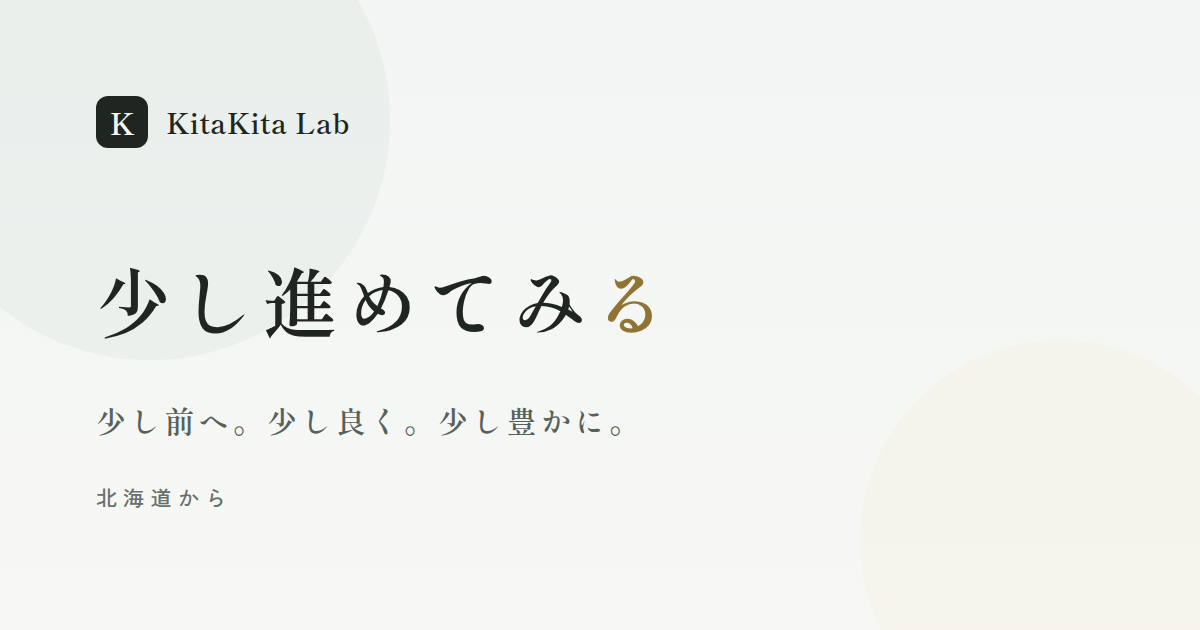
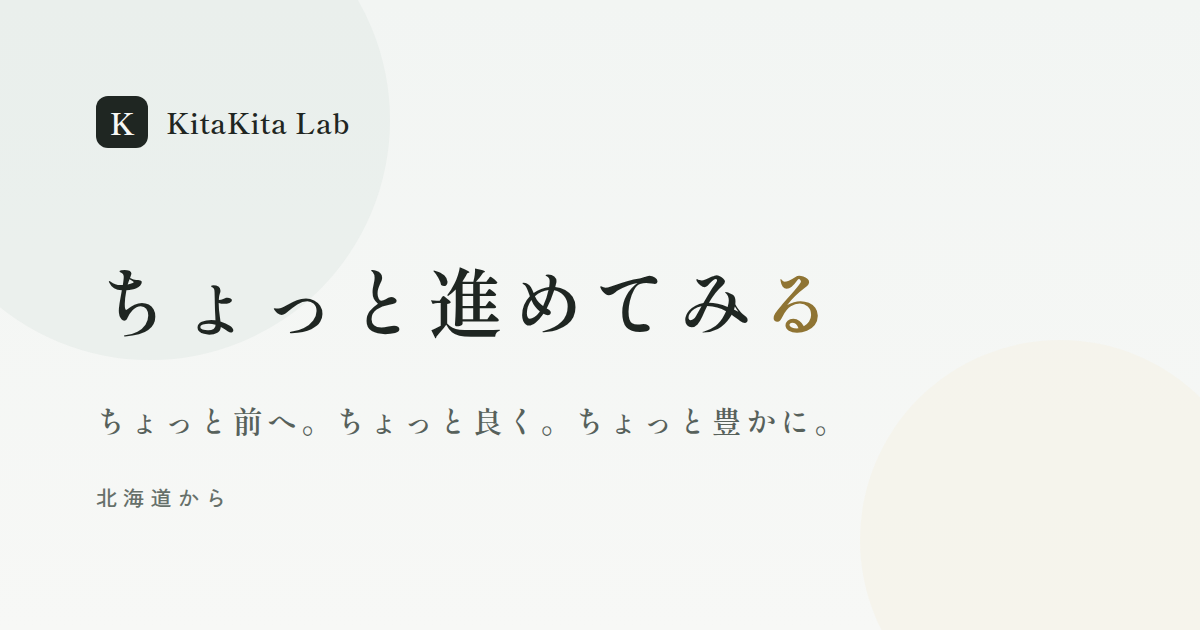
ブランド語彙の統一: 「少し」を「ちょっと」へ（all「ちょっと贅沢」と統一）
コピーのみの変更。デザイン・レイアウト・フォント・余白は不変。

- サイト全体の「少し」をブランド語彙「ちょっと」へ統一
  （Hero・タグライン・全ページ見出し/本文・News記事・FAQ・meta/OGP・
   構造化データ・README・BRAND.md）。
- 「少人数」など「少し」でない語は対象外。BRAND.md の改訂履歴（v2行）は
  歴史的記録として保持し、v3改訂行を追記。
- OGP画像を「ちょっと進めてみる」で再生成（フォントサブセットに
  ち・ょ・っ・と のグリフを追加取得）。
- 文字数増（2字）に伴うスマホ改行調整（フォント不変・意味のまとまり優先）:
  - Hero h1: 400px未満は「ちょっと／進めてみる」の2行
    （375pxで語中分割・390pxで余白ゼロになるため）
  - Heroタグライン: 420px未満は「前へ。良く。／豊かに。」の2行
  - Creators見出し: 「ちょっと」をnowrap固定＋極小トラッキング
  - Workshop CTA: 文節ごとにnowrap固定し語中分割を防止

検証: typecheck / lint / test(40) / build パス。
320/375/390/430px で変更見出しをスクリーンショット確認、
語中分割・孤立助詞なし・横スクロール0。

Claude-Session: https://claude.ai/code/session_013ypFxMEoAGeSNYS96NcwDp

Changed region(s): [[0.0925, 0.4222, 0.6783, 0.5429], [0.0617, 0.6333, 0.6783, 0.6937]]

diff --git a/src/data/news.ts b/src/data/news.ts
@@ -32,12 +32,12 @@ export const newsItems: NewsItem[] = [
     date: '2026-07-02',
     category: 'お知らせ',
     excerpt:
-      '「少し進めてみる」を真ん中に、KitaKita Labのブランドストーリーを新しくしました。',
+      '「ちょっと進めてみる」を真ん中に、KitaKita Labのブランドストーリーを新しくしました。',
     body: [
       'KitaKita Labは、ブランドストーリーを新しくしました。',
-      'これまで大切にしてきた「誰かの一歩を、少し前へ」という想いは変わりません。ただ、その真ん中に置く言葉を「少し進めてみる」に定めました。',
-      '「少し進めてみる」の意味は、ひとつに決めません。慎重に進むことかもしれないし、まずやってみることかもしれない。相談してみる、考えてみる——受け取る人によって変わっていい、私たちの哲学です。',
-      'KitaKita Labは、ブランドや事業をつくる会社ではありません。誰かの「やってみたい」を、ご縁や企画、仕組みや経験を通して、少し前へ。方向は示し、経験も分かち合います。それでも、歩くのは本人です。',
+      'これまで大切にしてきた「誰かの一歩を、ちょっと前へ」という想いは変わりません。ただ、その真ん中に置く言葉を「ちょっと進めてみる」に定めました。',
+      '「ちょっと進めてみる」の意味は、ひとつに決めません。慎重に進むことかもしれないし、まずやってみることかもしれない。相談してみる、考えてみる——受け取る人によって変わっていい、私たちの哲学です。',
+      'KitaKita Labは、ブランドや事業をつくる会社ではありません。誰かの「やってみたい」を、ご縁や企画、仕組みや経験を通して、ちょっと前へ。方向は示し、経験も分かち合います。それでも、歩くのは本人です。',
       'これからのKitaKita Labを、どうぞよろしくお願いします。',
     ],
   },
@@ -48,10 +48,10 @@ export const newsItems: NewsItem[] = [
     dateLabel: '公開準備中',
     category: 'お知らせ',
     excerpt:
-      'ハンドメイド作家が「少し進めてみる」ための場所として、プロジェクト「KitaKita Lab」を始動しました。',
+      'ハンドメイド作家が「ちょっと進めてみる」ための場所として、プロジェクト「KitaKita Lab」を始動しました。',
     body: [
-      'このたび、ハンドメイド作家が「少し進めてみる」ことを応援するプロジェクト「KitaKita Lab」を始動しました。',
-      'KitaKita Labは、作品を販売するだけでなく、企業コラボワークショップ、商業施設イベント、自治体・教育機関との連携、調査活動などを通じて、作家が活躍できる場所を少しずつ増やしていきます。',
+      'このたび、ハンドメイド作家が「ちょっと進めてみる」ことを応援するプロジェクト「KitaKita Lab」を始動しました。',
+      'KitaKita Labは、作品を販売するだけでなく、企業コラボワークショップ、商業施設イベント、自治体・教育機関との連携、調査活動などを通じて、作家が活躍できる場所をちょっとずつ増やしていきます。',
       '私たちの考え方に共感してくださる作家・企業・自治体・商業施設・メディアの皆さまとの出会いを、心よりお待ちしています。',
     ],
   },
@@ -62,11 +62,11 @@ export const newsItems: NewsItem[] = [
     dateLabel: '公開準備中',
     category: 'お知らせ',
     excerpt:
-      'KitaKita Labの考え方に共感してくださる作家を募集しています。「少し進めてみたい」気持ちを、かたちにしませんか。',
+      'KitaKita Labの考え方に共感してくださる作家を募集しています。「ちょっと進めてみたい」気持ちを、かたちにしませんか。',
     body: [
       'KitaKita Labでは、私たちの考え方に共感し、ともに活動してくださる作家を募集しています。',
       'ワークショップ講師、イベント出店、はじめての企業案件、将来講師を目指す方など、さまざまなかたちでの参加を歓迎します。',
-      '「少し進めてみたい」という想いがあれば、経験は問いません。まずはお気軽にご連絡ください。',
+      '「ちょっと進めてみたい」という想いがあれば、経験は問いません。まずはお気軽にご連絡ください。',
     ],
   },
   {
@@ -79,7 +79,7 @@ export const newsItems: NewsItem[] = [
       'ハンドメイド作家・市場に関する調査結果を、今後プレスリリースで順次公開していく予定です。',
     body: [
       'KitaKita Labでは、ハンドメイド作家や市場の実態を可視化する調査活動に取り組んでいます。',
-      '今後、調査結果をプレスリリースとして順次公開していく予定です。作家が少し前へ進める環境づくりのための基礎データとして、広く活用いただけるよう整えてまいります。',
+      '今後、調査結果をプレスリリースとして順次公開していく予定です。作家がちょっと前へ進める環境づくりのための基礎データとして、広く活用いただけるよう整えてまいります。',
       '最新情報はこのNewsページでお知らせします。',
     ],
   },

diff --git a/src/pages/WorkshopPage.tsx b/src/pages/WorkshopPage.tsx
@@ -29,7 +29,7 @@ const takeaways = [
   {
     icon: 'check',
     title: '持ち帰れるもの',
-    body: '完成した作品と、「少し進めてみた」という実感を持ち帰れます。',
+    body: '完成した作品と、「ちょっと進めてみた」という実感を持ち帰れます。',
   },
 ] as const
 
@@ -42,7 +42,7 @@ const scenes = [
   {
     icon: 'event',
     title: '商業施設',
-    body: '買い物のついでに、少しつくってみる。賑わいと、思いがけない出会いが生まれる場に。',
+    body: '買い物のついでに、ちょっとつくってみる。賑わいと、思いがけない出会いが生まれる場に。',
   },
   {
     icon: 'market',
@@ -74,7 +74,7 @@ const flow = [
   },
   {
     step: '04',
-    title: 'その後も、少しずつ',
+    title: 'その後も、ちょっとずつ',
     body: '実施後の声を踏まえて、次の機会や新しい企画につなげていきます。',
   },
 ]
@@ -108,7 +108,7 @@ export function WorkshopPage() {
             体験として<span className="whitespace-nowrap">届ける。</span>
           </>
         }
-        description="少人数レッスンから企業コラボ、商業施設イベントまで。手を動かすと、少し進む。参加者には「つくる喜び」を、作家には「はじめての舞台」を。"
+        description="少人数レッスンから企業コラボ、商業施設イベントまで。手を動かすと、ちょっと進む。参加者には「つくる喜び」を、作家には「はじめての舞台」を。"
       />
 
       <Section tone="paper" spacing="md">
@@ -118,7 +118,7 @@ export function WorkshopPage() {
             説明よりも、体験を。
           </h2>
           <p className="mt-6 text-base leading-loose text-ink-muted sm:text-lg">
-            ワークショップは、何かを教わる時間である以上に、自分の手で少し進めてみる時間だと考えています。
+            ワークショップは、何かを教わる時間である以上に、自分の手でちょっと進めてみる時間だと考えています。
             うまくできるかどうかより、手を動かしてみたかどうか。この場を開いたのは、作家 ikyu。
             KitaKita Lab は、企業とのご縁と企画で、その最初の一歩を<span className="whitespace-nowrap">いっしょに</span>形にしました。
           </p>
@@ -132,7 +132,7 @@ export function WorkshopPage() {
             <>
               参加すると
               <br className="sm:hidden" />
-              少し変わること
+              ちょっと変わること
             </>
           }
           description="大げさな変化ではなく、こんな手ざわりを届けたいと思っています。"
@@ -159,7 +159,7 @@ export function WorkshopPage() {
             <>
               現場の空気を
               <br className="sm:hidden" />
-              少しだけ。
+              ちょっとだけ。
             </>
           }
           description={
@@ -223,7 +223,7 @@ export function WorkshopPage() {
               生まれています
             </>
           }
-          description="目的や場に合わせて、ワークショップのかたちを少しずつ変えています。"
+          description="目的や場に合わせて、ワークショップのかたちをちょっとずつ変えています。"
         />
         <div className="mt-12 grid gap-5 sm:grid-cols-2">
           {scenes.map((s, i) => (
@@ -284,7 +284,14 @@ export function WorkshopPage() {
       <CtaBand
         title={
           <>
-            その<span className="whitespace-nowrap">ワークショップ</span>、<span className="whitespace-nowrap">少し</span>形にしてみませんか。
+            {/* 語中分割（形にし／てみませんか 等）を防ぐため、文節ごとに
+                nowrap で固定し、幅に応じて文節の境目でのみ折れるようにする。
+                「形にしてみませんか。」をひと塊にすると320px幅(272px)を
+                約10px超えるため、「形に｜してみませんか。」で分ける。 */}
+            その<span className="whitespace-nowrap">ワークショップ</span>、
+            <span className="whitespace-nowrap">ちょっと</span>
+            <span className="whitespace-nowrap">形に</span>
+            <span className="whitespace-nowrap">してみませんか。</span>
           </>
         }
         description="内容が固まっていなくても大丈夫です。まずは、思っていることを聞かせてください。"

diff --git a/index.html b/index.html
@@ -7,10 +7,10 @@
     <link rel="apple-touch-icon" href="/apple-touch-icon.png" />
     <meta name="theme-color" content="#F7F8F6" />
 
-    <title>KitaKita Lab｜少し進めてみる</title>
+    <title>KitaKita Lab｜ちょっと進めてみる</title>
     <meta
       name="description"
-      content="KitaKita Lab（キタキタラボ）は、北海道の「少し進めてみる」ための場所です。ワークショップ、AIやシステムづくり、地域や企業との企画——大きな約束はしません。少し前へ、少し良く、少し豊かになる時間と出会いを届けます。"
+      content="KitaKita Lab（キタキタラボ）は、北海道の「ちょっと進めてみる」ための場所です。ワークショップ、AIやシステムづくり、地域や企業との企画——大きな約束はしません。ちょっと前へ、ちょっと良く、ちょっと豊かになる時間と出会いを届けます。"
     />
 
     <!-- canonical is set per-route by <Seo> (react-helmet-async); a static
@@ -20,10 +20,10 @@
     <!-- Open Graph -->
     <meta property="og:type" content="website" />
     <meta property="og:site_name" content="KitaKita Lab" />
-    <meta property="og:title" content="KitaKita Lab｜少し進めてみる" />
+    <meta property="og:title" content="KitaKita Lab｜ちょっと進めてみる" />
     <meta
       property="og:description"
-      content="少し前へ。少し良く。少し豊かに。北海道の「少し進めてみる」ための場所です。"
+      content="ちょっと前へ。ちょっと良く。ちょっと豊かに。北海道の「ちょっと進めてみる」ための場所です。"
     />
     <meta property="og:url" content="https://kitakita-lab.com/" />
     <!-- og:image は PNG 必須（SVG は X / Facebook / LINE 等で描画されない）。
@@ -31,15 +31,15 @@
     <meta property="og:image" content="https://kitakita-lab.com/ogp.png" />
     <meta property="og:image:width" content="1200" />
     <meta property="og:image:height" content="630" />
-    <meta property="og:image:alt" content="KitaKita Lab — 少し進めてみる" />
+    <meta property="og:image:alt" content="KitaKita Lab — ちょっと進めてみる" />
     <meta property="og:locale" content="ja_JP" />
 
     <!-- Twitter -->
     <meta name="twitter:card" content="summary_large_image" />
-    <meta name="twitter:title" content="KitaKita Lab｜少し進めてみる" />
+    <meta name="twitter:title" content="KitaKita Lab｜ちょっと進めてみる" />
     <meta
       name="twitter:description"
-      content="少し前へ。少し良く。少し豊かに。北海道から。"
+      content="ちょっと前へ。ちょっと良く。ちょっと豊かに。北海道から。"
     />
     <meta name="twitter:image" content="https://kitakita-lab.com/ogp.png" />
 
@@ -75,7 +75,7 @@
         "url": "https://kitakita-lab.com/",
         "logo": "https://kitakita-lab.com/icon-512.png",
         "image": "https://kitakita-lab.com/ogp.png",
-        "description": "北海道の「少し進めてみる」ための場所。ワークショップ、AIやシステムづくり、地域や企業との企画を通じて、少し前へ、少し良く、少し豊かになる時間と出会いを届けます。"
+        "description": "北海道の「ちょっと進めてみる」ための場所。ワークショップ、AIやシステムづくり、地域や企業との企画を通じて、ちょっと前へ、ちょっと良く、ちょっと豊かになる時間と出会いを届けます。"
       }
     </script>
   </head>

diff --git a/src/data/research.ts b/src/data/research.ts
@@ -28,7 +28,7 @@ export const researchReports: ResearchReport[] = [
     status: '公開準備中',
     tag: '作家調査',
     summary:
-      'ハンドメイド作家が活動を続けるなかで感じている手ごたえや、次の一歩をためらう理由を、ことばと数字で残すための調査です。作家が少し前へ進める環境づくりの、基礎データとして活用します。',
+      'ハンドメイド作家が活動を続けるなかで感じている手ごたえや、次の一歩をためらう理由を、ことばと数字で残すための調査です。作家がちょっと前へ進める環境づくりの、基礎データとして活用します。',
     topics: ['活動を続けるなかでの手ごたえと迷い', '活躍の場に対する実感', '企業との協働への関心'],
     method: '全国のハンドメイド作家を対象としたアンケート調査（インターネット調査）',
   },
@@ -48,7 +48,7 @@ export const researchReports: ResearchReport[] = [
     status: '公開準備中',
     tag: '市場分析',
     summary:
-      'ハンドメイド市場の動向や、つくり手・購入者の意識の変化を整理するレポートです。市場が少しずつ広がっていくための示唆をまとめます。',
+      'ハンドメイド市場の動向や、つくり手・購入者の意識の変化を整理するレポートです。市場がちょっとずつ広がっていくための示唆をまとめます。',
     topics: ['市場全体の関心の推移', '体験消費への向き合い方', '地域との連携への期待'],
     method: '各種公開データおよび独自アンケートの分析',
   },

diff --git a/src/data/faq.tsx b/src/data/faq.tsx
@@ -24,14 +24,14 @@ export const faqItems: FaqItem[] = [
       </>
     ),
     answer:
-      '北海道の「少し進めてみる」ための場所です。何を進めるかは決まっていません。作品でも、仕事でも、アイデアでも。大きな約束はしませんが、道が少し豊かになるような時間・体験・出会いを用意しています。',
+      '北海道の「ちょっと進めてみる」ための場所です。何を進めるかは決まっていません。作品でも、仕事でも、アイデアでも。大きな約束はしませんが、道がちょっと豊かになるような時間・体験・出会いを用意しています。',
   },
   {
     id: 'handmade-company',
     audience: '全般',
     question: 'ハンドメイドの会社ということですか？',
     answer:
-      'ハンドメイドやワークショップは、いま育てているものの一部です。ほかにも、AIやシステムづくり、EC、地域や企業との企画などを育てています。ばらばらに見えるかもしれませんが、すべて「少し進めてみる」という同じ考えから生まれています。',
+      'ハンドメイドやワークショップは、いま育てているものの一部です。ほかにも、AIやシステムづくり、EC、地域や企業との企画などを育てています。ばらばらに見えるかもしれませんが、すべて「ちょっと進めてみる」という同じ考えから生まれています。',
   },
   {
     id: 'creator-experience-required',

diff --git a/src/data/activities.ts b/src/data/activities.ts
@@ -2,7 +2,7 @@
  * Activities（私たちがつくる流れ）データ。
  *
  * 事業一覧ではなく「どんな流れをつくる会社か」を表す。
- * 流れはすべて「〜てみる」——哲学（少し進めてみる）の動詞が
+ * 流れはすべて「〜てみる」——哲学（ちょっと進めてみる）の動詞が
  * そのまま会社の動きになっている。
  * ワークショップ・AI・EC などの活動は、この流れの中の実例として置く。
  * 実例は examples に追加するだけで掲載されます。
@@ -31,7 +31,7 @@ export const flowSteps: FlowStep[] = [
   {
     id: 'talk',
     verb: '話してみる',
-    summary: '進めてみたいことを、言葉にしてみる。それだけで、少し進みます。',
+    summary: '進めてみたいことを、言葉にしてみる。それだけで、ちょっと進みます。',
     examples: [
       { label: 'ご相談', href: '/contact' },
       { label: '企業・地域との企画', href: '/collaboration' },
@@ -58,7 +58,7 @@ export const flowSteps: FlowStep[] = [
   {
     id: 'continue',
     verb: 'つづけてみる',
-    summary: 'ふりかえって、また少し。声を数字にして、次に進む人の地図に。',
+    summary: 'ふりかえって、またちょっと。声を数字にして、次に進む人の地図に。',
     examples: [
       { label: '調査', href: '/research' },
       { label: '次の企画へ' },

diff --git a/src/components/home/CreatorsCallout.tsx b/src/components/home/CreatorsCallout.tsx
@@ -19,7 +19,7 @@ export function CreatorsCallout() {
           <div className="relative mx-auto max-w-2xl text-center">
             <span className="eyebrow">Creators</span>
             {/* ブランドの核となる「一緒に」を残す。スマホではカード内の見出し幅が
-                狭い（px-6で約222px）ため、「一緒に「少し」／進めてみませんか。」の
+                狭い（px-6で約222px）ため、「一緒に「ちょっと」／進めてみませんか。」の
                 意味のまとまりで2行に固定。2行目が幅を数px超えるので、スマホのみ
                 フォントを1段階（text-2xl）＋極小トラッキングで収める。sm以上は
                 通常サイズ・通常字間で1〜2行に自然に組む。 */}
@@ -28,7 +28,7 @@ export function CreatorsCallout() {
                 {/* 各まとまりを nowrap で固定し、h2 の text-wrap:balance が
                     CJK 途中で3行目に割るのを防ぐ。sm 以上は br が消え、
                     2つのまとまりの境目でのみ自然に折り返す。 */}
-                <span className="whitespace-nowrap">一緒に「少し」</span>
+                <span className="whitespace-nowrap">一緒に「ちょっと」</span>
                 <br className="sm:hidden" />
                 <span className="whitespace-nowrap">進めてみませんか。</span>
               </span>

diff --git a/src/pages/CreatorsPage.tsx b/src/pages/CreatorsPage.tsx
@@ -14,12 +14,21 @@ export function CreatorsPage() {
       <Seo
         title="Creators"
         path="/creators"
-        description="KitaKita Labは、一緒に「少し進めてみる」仲間を探しています。ワークショップ講師、イベント出店、はじめての企業案件まで。実績より、進めてみたい気持ちを大切にします。"
+        description="KitaKita Labは、一緒に「ちょっと進めてみる」仲間を探しています。ワークショップ講師、イベント出店、はじめての企業案件まで。実績より、進めてみたい気持ちを大切にします。"
       />
 
       <PageHeader
         eyebrow="Creators"
-        title={<>その「少し」を<br />ここから。</>}
+        title={
+          // 「その「ちょっと」を」(約275px)は320px幅(272px)を数px超え、
+          // 「ちょ／っと」と語中で割れるため、極小トラッキングで1行に収める
+          // （フォントサイズ不変・sm以上は通常字間）。
+          <span className="tracking-[-0.02em] sm:tracking-normal">
+            その<span className="whitespace-nowrap">「ちょっと」</span>を
+            <br />
+            ここから。
+          </span>
+        }
         description={
           <>
             探しているのは、スキルの高い人<span className="whitespace-nowrap">ではありません</span>。

diff --git a/src/components/home/Hero.tsx b/src/components/home/Hero.tsx
@@ -33,14 +33,23 @@ export function Hero() {
             className="mt-12 animate-fade-up font-serif text-4xl font-medium leading-snug tracking-normal text-ink sm:mt-14 sm:text-5xl sm:tracking-[0.08em] lg:text-[3.4rem]"
             style={{ animationDelay: '150ms' }}
           >
-            少し進めてみる
+            {/* 9文字の一行は約400px未満で収まらない（375pxでは「ちょっと進／
+                めてみる」と語中で割れ、390pxでは余白ゼロまで詰まる）ため、
+                400px未満は意味のまとまりで2行に折る（フォントは不変）。 */}
+            ちょっと
+            <br className="min-[400px]:hidden" />
+            進めてみる
           </h1>
 
           <p
             className="mt-12 animate-fade-up font-serif text-base leading-loose tracking-[0.03em] text-ink-muted sm:mt-14 sm:text-lg sm:tracking-[0.14em]"
             style={{ animationDelay: '400ms' }}
           >
-            少し前へ。少し良く。少し豊かに。
+            {/* 22文字の一行は約420px未満で収まらないため、その幅までは
+                意味のまとまりで2行にする。 */}
+            ちょっと前へ。ちょっと良く。
+            <br className="min-[420px]:hidden" />
+            ちょっと豊かに。
           </p>
 
           <p

diff --git a/src/data/site.ts b/src/data/site.ts
@@ -7,11 +7,11 @@
 export const site = {
   name: 'KitaKita Lab',
   nameJa: 'キタキタラボ',
-  tagline: '少し進めてみる',
+  tagline: 'ちょっと進めてみる',
   /** ブランドフィロソフィー（docs/BRAND.md 参照）。要所でのみ掲げる。 */
-  philosophy: '少し進めてみる',
+  philosophy: 'ちょっと進めてみる',
   description:
-    'KitaKita Lab（キタキタラボ）は、北海道の「少し進めてみる」ための場所です。ワークショップ、AIやシステムづくり、地域や企業との企画——大きな約束はしません。少し前へ、少し良く、少し豊かになる時間と出会いを届けます。',
+    'KitaKita Lab（キタキタラボ）は、北海道の「ちょっと進めてみる」ための場所です。ワークショップ、AIやシステムづくり、地域や企業との企画——大きな約束はしません。ちょっと前へ、ちょっと良く、ちょっと豊かになる時間と出会いを届けます。',
   url: 'https://kitakita-lab.com',
   // og:image は PNG 必須（SVG は SNS 各社が描画しない）。scripts/generate-og.mjs で再生成。
   ogImage: '/ogp.png',

diff --git a/src/data/creators.ts b/src/data/creators.ts
@@ -12,7 +12,7 @@ export const creatorRoles: CreatorRole[] = [
   {
     title: 'ワークショップ講師',
     description:
-      'つくる楽しさを伝える講師として活動したい方。少人数レッスンから企業案件まで、少しずつ舞台を広げられます。',
+      'つくる楽しさを伝える講師として活動したい方。少人数レッスンから企業案件まで、ちょっとずつ舞台を広げられます。',
   },
   {
     title: 'イベント出店作家',
@@ -36,7 +36,7 @@ export const creatorValues: { title: string; body: string }[] = [
   {
     title: '歩くのは、本人',
     body:
-      '私たちは代わりに歩きません。そのかわり、道が少し豊かになる時間と出会いを、隣で用意しています。',
+      '私たちは代わりに歩きません。そのかわり、道がちょっと豊かになる時間と出会いを、隣で用意しています。',
   },
   {
     title: '押し付けない',

diff --git a/src/App.test.tsx b/src/App.test.tsx
@@ -9,11 +9,11 @@ import { App } from './App'
  */
 const routes: Array<{ path: string; heading: string | RegExp }> = [
   // 哲学の単独表記は句点なし（docs/BRAND.md）— 句点が復活したら検知できるよう完全一致で見る
-  { path: '/', heading: /^少し進めてみる$/ },
+  { path: '/', heading: /^ちょっと進めてみる$/ },
   { path: '/workshop', heading: /つくる楽しさを/ },
   { path: '/research', heading: /現場の声を、/ },
   { path: '/collaboration', heading: /ものづくりの力で/ },
-  { path: '/creators', heading: /その「少し」を/ },
+  { path: '/creators', heading: /その「ちょっと」を/ },
   { path: '/news', heading: 'お知らせ' },
   { path: '/faq', heading: 'よくある質問' },
   { path: '/contact', heading: 'お問い合わせ' },
